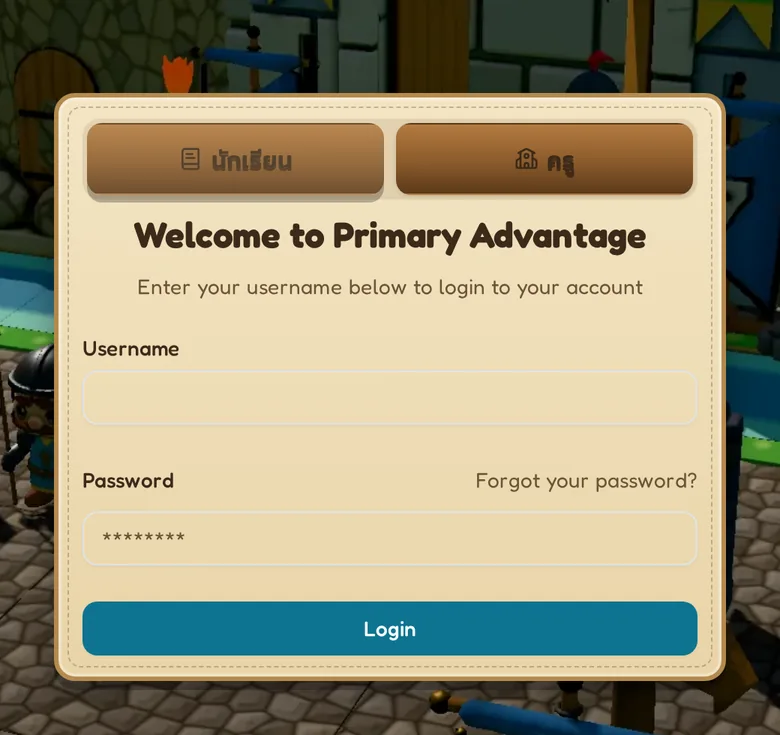
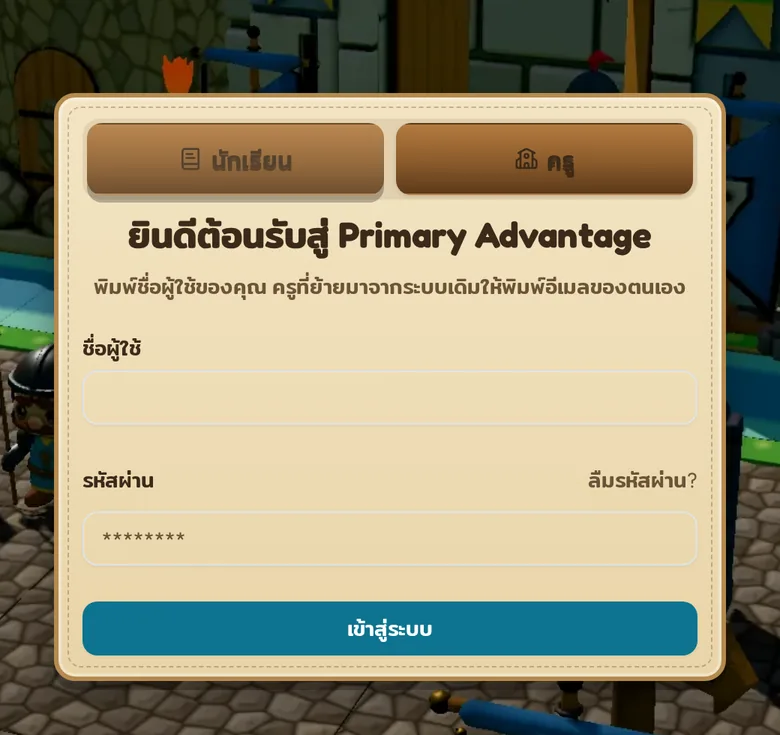
fix(primary): manual text b, new pictures (track_id: primary_teacher_books_lesson_support_20261003)
Section 6 of the in-app guide shows only the class sheet text B (C14 default that PR
recorded on 2026-10-21; Daniel can change it). Five Thai fixes from the Workbooks K3
proofread (PR): modeNote, teachAgain, atHome, start-class step 2, class sheet step 3.
Guide pictures from the 2026-10-21 retakes on the new build: Thai staff sign-in and new
password, Origins 3.1 class book, progress grid, "Pip's Happy Night" assignment.

diff --git a/apps/primary-advantage/lib/teacher-manual-figures.ts b/apps/primary-advantage/lib/teacher-manual-figures.ts
@@ -38,7 +38,7 @@ export const MANUAL_FIGURES = {
   lessonPlan: { src: "/manual/lessonPlan.webp", width: 1455, height: 510, marks: [{ n: 1, x: 78.56, y: 16.41, w: 20.21, h: 12.94 }] },
   progressGrid: { src: "/manual/progressGrid.webp", width: 1455, height: 750, marks: [] },
   markTaught: { src: "/manual/markTaught.webp", width: 1455, height: 600, marks: [{ n: 2, x: 65.26, y: 26.25, w: 17.53, h: 11.0 }] },
-  assignments: { src: "/manual/assignments.webp", width: 1920, height: 630, marks: [{ n: 1, x: 3.88, y: 66.48, w: 16.62, h: 11.36 }, { n: 1, x: 87.97, y: 15.67, w: 9.53, h: 10.48 }, { n: 5, x: 23.67, y: 66.64, w: 11.8, h: 10.48 }] },
+  assignments: { src: "/manual/assignments.webp", width: 1920, height: 630, marks: [{ n: 1, x: 3.88, y: 66.48, w: 16.62, h: 11.36 }, { n: 1, x: 87.97, y: 15.67, w: 9.53, h: 10.48 }, { n: 5, x: 23.67, y: 66.64, w: 14.14, h: 10.48 }] },
   articleAssign: { src: "/manual/articleAssign.webp", width: 1470, height: 690, marks: [{ n: 3, x: 62.59, y: 30.43, w: 12.45, h: 7.83 }] },
   assignForm: { src: "/manual/assignForm.webp", width: 780, height: 843, marks: [{ n: 4, x: 5.58, y: 24.02, w: 88.85, h: 6.41 }, { n: 4, x: 5.58, y: 37.19, w: 88.85, h: 6.41 }, { n: 4, x: 5.58, y: 50.36, w: 88.85, h: 11.39 }, { n: 4, x: 8.85, y: 71.53, w: 82.31, h: 24.91 }] },
   assignDue: { src: "/manual/assignDue.webp", width: 780, height: 780, marks: [{ n: 4, x: 8.08, y: 10.62, w: 83.85, h: 72.02 }, { n: 4, x: 85.19, y: 88.21, w: 9.23, h: 6.92 }] },

diff --git a/apps/primary-advantage/app/[locale]/teacher/manual/__tests__/page.test.tsx b/apps/primary-advantage/app/[locale]/teacher/manual/__tests__/page.test.tsx
@@ -146,6 +146,14 @@ describe("teacher manual (FR-15, S5 request 2026-10-20)", () => {
     expect(sheet.textContent).not.toMatch(/NaN|\b7\b/);
   });
 
+  it("shows only the class sheet text B (C14 default of 2026-10-21)", async () => {
+    await renderPage("en");
+    const sheet = document.getElementById("class-sheet")!;
+    expect(sheet.querySelector("[data-class-sheet-case]")).toHaveAttribute("data-class-sheet-case", "B");
+    expect(sheet).toHaveTextContent("Make the class sheet once, before the first lesson");
+    expect(sheet).not.toHaveTextContent("The team already gave your class its class sheet");
+  });
+
   it("links the LINE support contact and shows the teacher menu box (PR review B8, B9)", async () => {
     await renderPage("th");
     expect(screen.getByRole("link", { name: "LINE ReadingAdvantage" })).toHaveAttribute("href", "https://line.me/ti/p/Pf7_EF98Pv");

diff --git a/apps/primary-advantage/lib/teacher-manual-guide.ts b/apps/primary-advantage/lib/teacher-manual-guide.ts
@@ -118,10 +118,11 @@ export interface ManualSection {
 }
 
 /**
- * Which class sheet text section 6 shows (cutover step C14, Daniel decides on 2026-10-21): "A" when
- * the team handed out the class sheets, "B" when no class has a sheet yet, "both" until then.
+ * Which class sheet text section 6 shows (cutover step C14): "A" when the team handed out the class
+ * sheets, "B" when no class has a sheet yet, "both" for a draft. "B" is the default that PR recorded on
+ * 2026-10-21 (the cutover records say the hand-out is still open); Daniel can change it.
  */
-export const CLASS_SHEET_CASE: "A" | "B" | "both" = "both";
+export const CLASS_SHEET_CASE: "A" | "B" | "both" = "B";
 
 /** The six sections of the teacher manual (S5 request A.3, PR draft v0.1 of 2026-10-20). */
 export const MANUAL_SECTIONS: ManualSection[] = [
